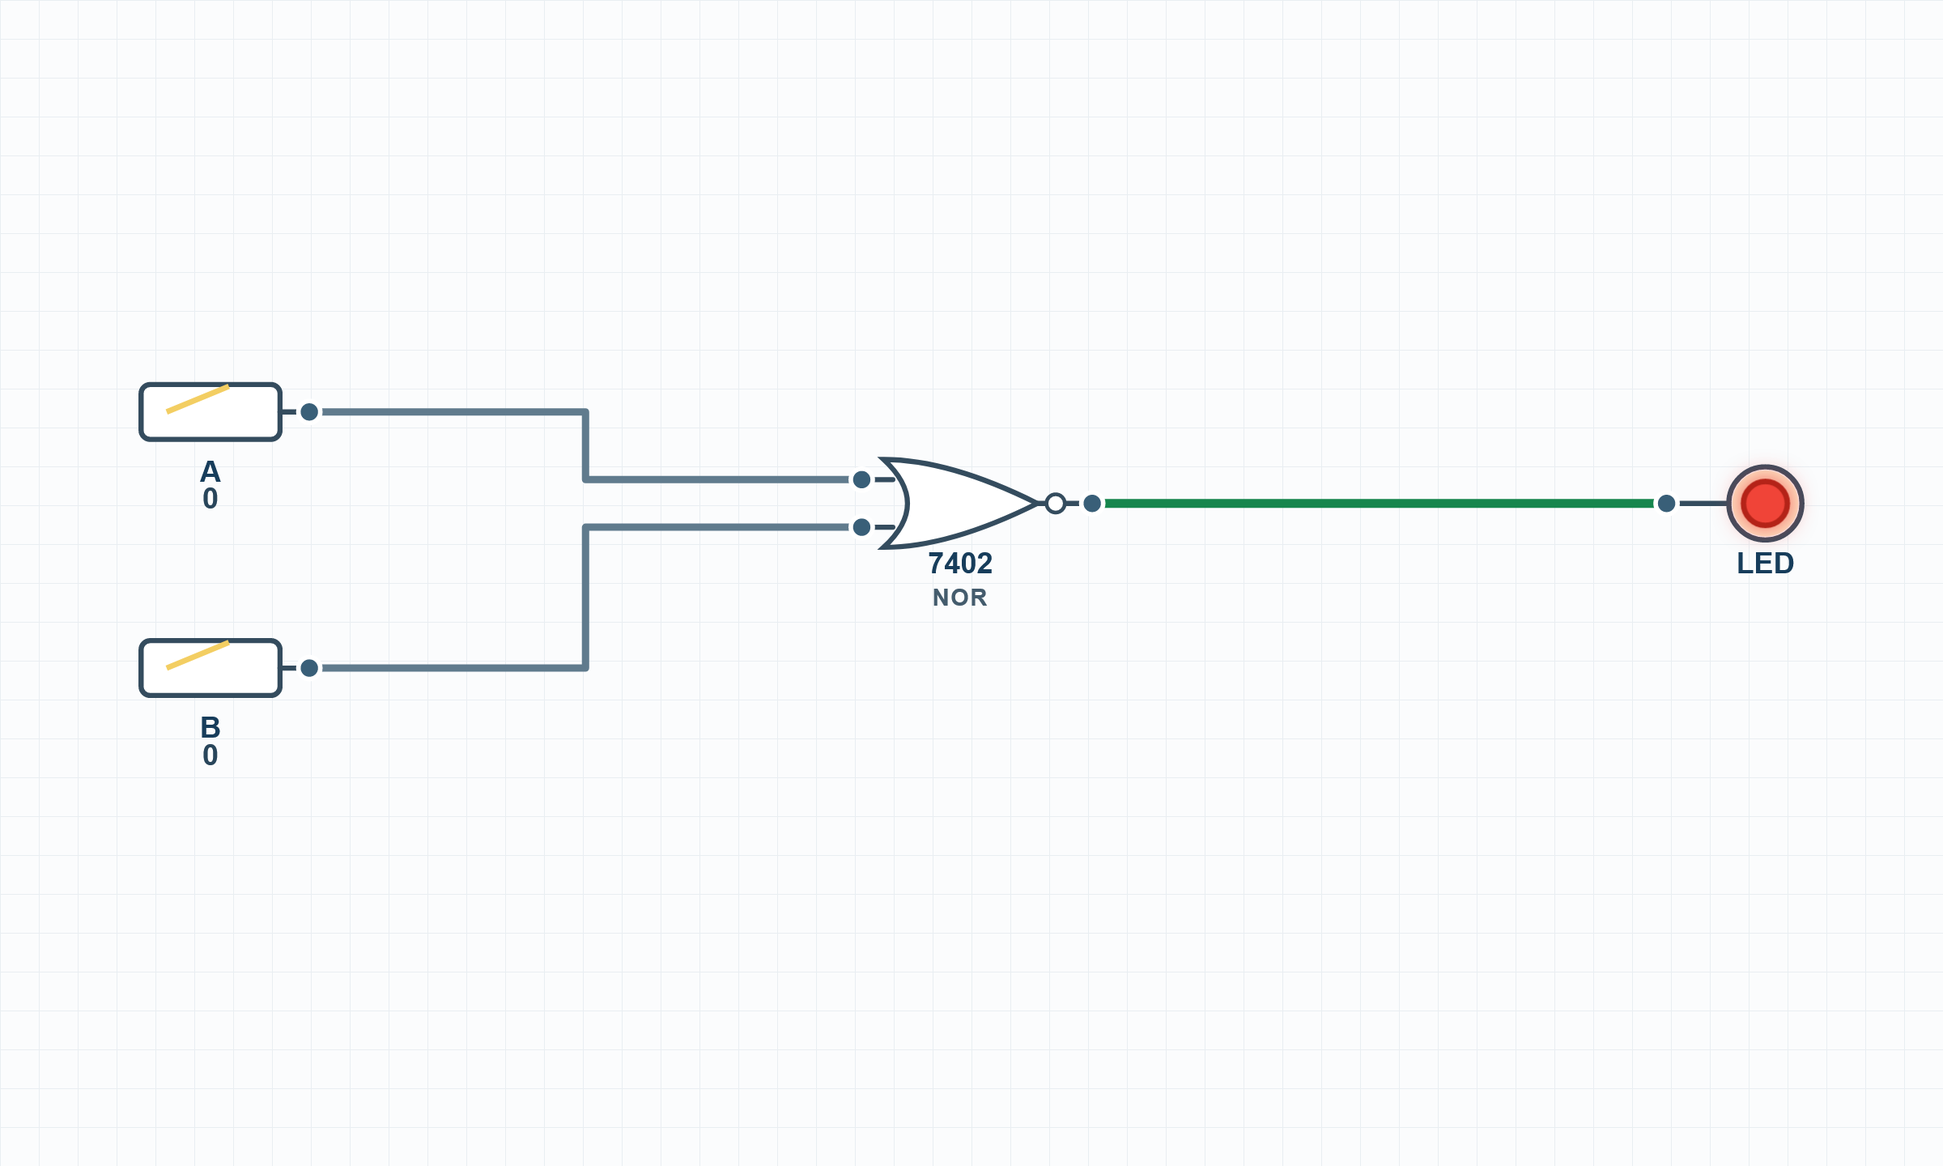
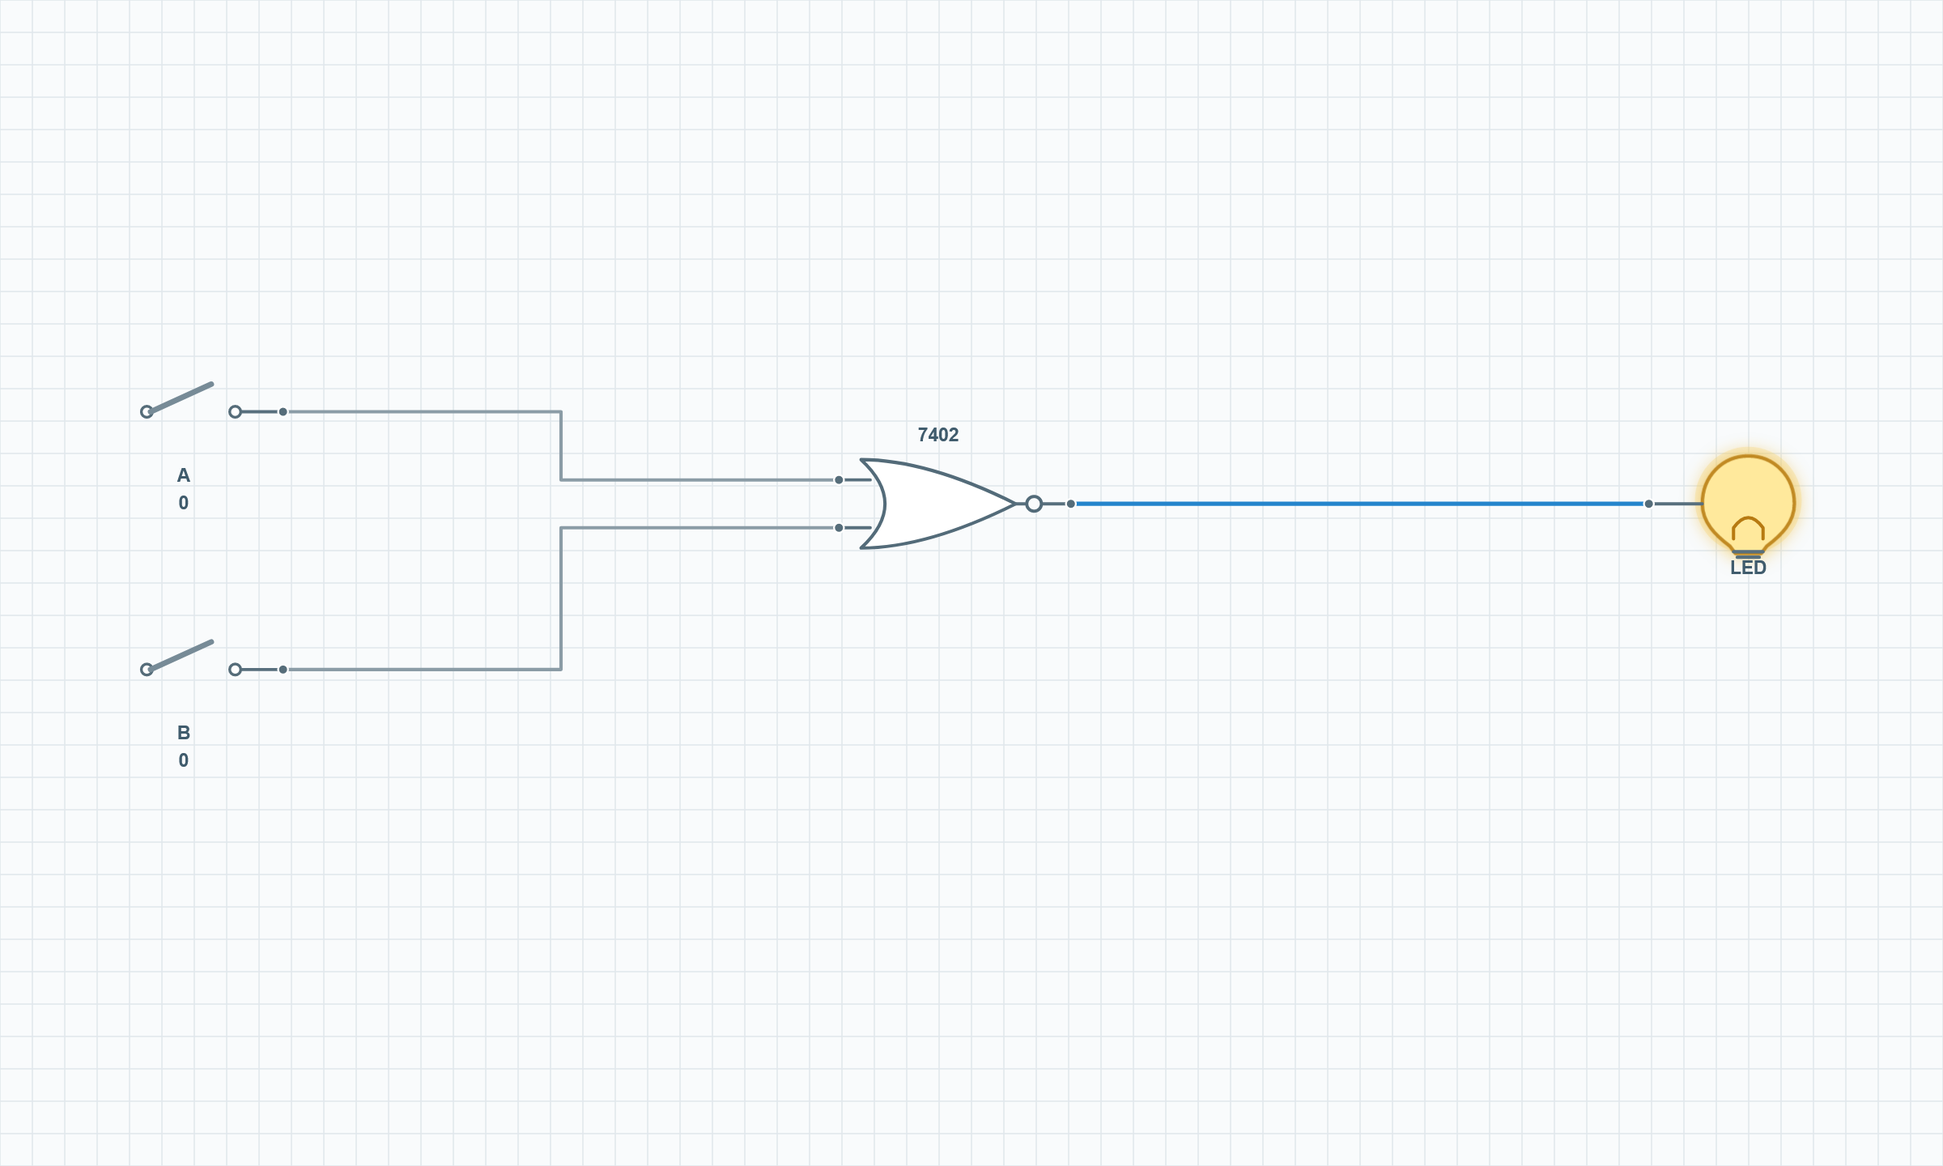
Fix digital simulator report SVG styling

Changed region(s): [[0.0625, 0.3125, 0.9375, 0.6562]]

diff --git a/Laboratorio-de-Eletronica-Digital/simulador/sim.js b/Laboratorio-de-Eletronica-Digital/simulador/sim.js
@@ -7,9 +7,9 @@ const palette=$('palette');for(const [type,meta]of Object.entries(library)){cons
 function sEl(tag,attrs={},txt){const e=document.createElementNS(ns,tag);for(const[k,v]of Object.entries(attrs))e.setAttribute(k,v);if(txt!==undefined)e.textContent=txt;return e}
 function meta(p){return library[p.type]}function pinLocal(p,i){if(p.type==='GND')return[54,5];if(p.type==='PROBE')return[0,29];if(p.type==='SW')return[108,29];if(p.type==='LED')return[0,29];if(p.type==='NOT')return i===0?[0,29]:[118,29];if(meta(p).pins.length===3)return i===0?[0,16]:i===1?[0,42]:p.type==='NOR'||p.type==='XNOR'?[126,29]:p.type==='NAND'?[118,29]:[108,29];return i===0?[0,29]:[108,29]}
 function pinKey(id,i){return `${id}:${i}`}function absolutePin(p,i){const [x,y]=pinLocal(p,i);return{x:p.x+x,y:p.y+y}}
-function body(p){if(p.type==='D'||p.type==='GND'||p.type==='PROBE'||p.type==='C')return sEl('g',{});if(['VSIN','VDC'].includes(p.type))return sEl('circle',{class:'component-body',cx:54,cy:29,r:22});if(p.type==='R')return sEl('g',{});if(p.type==='LED')return sEl('circle',{class:'component-body',cx:54,cy:29,r:20});if(p.type==='SW')return sEl('rect',{class:'component-body',x:16,y:14,width:76,height:30,rx:5});if(p.type==='NOT')return sEl('path',{class:'component-body',d:'M20 8L82 29L20 50Z'});if(['AND','NAND'].includes(p.type))return sEl('path',{class:'component-body',d:'M12 5H48A24 24 0 0 1 48 53H12Z'});if(['OR','NOR','XOR','XNOR'].includes(p.type))return sEl('path',{class:'component-body',d:'M12 5Q38 29 12 53Q48 53 96 29Q48 5 12 5Z'});return sEl('rect',{class:'component-body',x:12,y:5,width:84,height:48,rx:18})}
-function drawPart(p){const g=sEl('g',{class:`component${selected===p.id?' selected':''}`,transform:`translate(${p.x} ${p.y})`,'data-id':p.id});const b=body(p);g.append(b);if(p.type==='SW'||p.type==='LED')g.append(sEl('path',{class:'component-lead',d:p.type==='SW'?'M92 29H108':'M0 29H34'}));if(p.type==='NOT'){g.append(sEl('path',{class:'component-lead',d:'M0 29H20 M93 29H118'}));g.append(sEl('circle',{cx:88,cy:29,r:5,fill:'#fff',stroke:'#344c5e','stroke-width':2}))}if(['AND','NAND'].includes(p.type))g.append(sEl('path',{class:'component-lead',d:'M0 16H12 M0 42H12 M72 29H93 M103 29H118'}));if(['OR','NOR','XOR','XNOR'].includes(p.type))g.append(sEl('path',{class:'component-lead',d:'M0 16H17 M0 42H17 M96 29H101 M111 29H126'}));if(p.type==='R')g.append(sEl('path',{d:'M0 29H20l7-12 10 24 10-24 10 24 10-24 10 24 7-12h24',stroke:'#e8f0f4','stroke-width':3,fill:'none','stroke-linejoin':'round'}));if(p.type==='NPN')g.append(sEl('path',{d:'M0 29H42m0-17v34m0-29 27-13h39m-39 0L58 21m-16 16h16m0 0 27 14h15m-42-14 11 3-5-10',stroke:'#e8f0f4','stroke-width':3,fill:'none','stroke-linecap':'round','stroke-linejoin':'round'}));if(p.type==='VSIN')g.append(sEl('path',{d:'M39 29c5-15 10-15 15 0s10 15 15 0',stroke:'#e8f0f4','stroke-width':2.5,fill:'none'}));if(p.type==='VDC')g.append(sEl('path',{d:'M54 15v9m-4-5h8m-4 13v9',stroke:'#e8f0f4','stroke-width':2}));if(p.type==='D'){g.append(sEl('path',{d:'M30 29h20m0-13v26m0-26 24 13-24 13m24-26v26m0-13h20',stroke:'#d8e8ee','stroke-width':3,fill:'none'}))}else if(p.type==='C'){g.append(sEl('path',{d:'M0 29h43m0-15v30m12-30v30m0-15h53',stroke:'#d8e8ee','stroke-width':3,fill:'none'}))}else if(p.type==='GND'){g.append(sEl('path',{d:'M54 5v12m-16 0h32m-26 6h20m-14 6h8',stroke:'#d8e8ee','stroke-width':2,fill:'none'}))}else if(p.type==='PROBE'){g.append(sEl('path',{d:'M5 42L48 29',stroke:'#d8e8ee','stroke-width':2,fill:'none'}));g.append(sEl('circle',{cx:54,cy:29,r:5,fill:'#4bd7e8'}))}else if(p.type==='SW'){g.append(sEl('path',{d:p.value?'M30 29h42':'M30 29l34-14',stroke:p.value?'#65e1ad':'#f3ce62','stroke-width':3}))}else if(p.type==='LED'){if(p.level===1)g.append(sEl('circle',{class:'led-halo',cx:54,cy:29,r:18}));g.append(sEl('circle',{class:`led-lamp ${p.level===1?'on':'off'}`,cx:54,cy:29,r:12}))}else if(p.type==='C')g.append(sEl('text',{x:54,y:62,'text-anchor':'middle',class:'sym'},'C'));else if(p.type==='D')g.append(sEl('text',{x:54,y:62,'text-anchor':'middle',class:'sym'},'D'));
-g.append(sEl('text',{x:54,y:p.type==='C'||p.type==='D'?78:67,'text-anchor':'middle',class:'ref'},p.name||`${p.type}${p.id}`));if(['AND','OR','NOT','NAND','NOR','XOR','XNOR'].includes(p.type))g.append(sEl('text',{x:54,y:85,'text-anchor':'middle',class:'gate-kind'},p.type));if(['NAND','NOR','XNOR'].includes(p.type))g.append(sEl('circle',{cx:p.type==='NOR'||p.type==='XNOR'?106:98,cy:29,r:5,fill:'#fff',stroke:'#344c5e','stroke-width':2}));if(p.type==='XOR'||p.type==='XNOR')g.append(sEl('path',{d:'M5 5Q31 29 5 53',stroke:'#5a8999','stroke-width':2,fill:'none'}));const val=p.type==='R'?fmt(p.resistance,'Ω'):p.type==='C'?fmt(p.capacitance,'F'):p.type==='VSIN'?`${fmt(p.amp,'V')} · ${fmt(p.freq,'Hz')}`:p.type==='VDC'?fmt(p.voltage,'V'):p.type==='SW'?String(p.value):'';if(val)g.append(sEl('text',{x:54,y:p.type==='C'||p.type==='D'?92:82,'text-anchor':'middle',class:'value'},val));meta(p).pins.forEach((pin,i)=>{const [x,y]=pinLocal(p,i),c=sEl('circle',{class:'pin','data-pin':pinKey(p.id,i),cx:x,cy:y,r:6});const title=sEl('title',{},pin);c.append(title);g.append(c)});g.addEventListener('pointerdown',e=>{if(e.target.classList.contains('pin'))return;drag={id:p.id,start:point(e),origX:p.x,origY:p.y,moved:false};e.preventDefault();e.stopPropagation()});g.addEventListener('click',e=>{if(e.target.classList.contains('pin'))return;if(p.type==='SW'){p.value=p.value?0:1;update();selected=p.id;renderInspector();return}selected=p.id;draw();renderInspector()});partsLayer.append(g)}
+function body(p){if(p.type==='D'||p.type==='GND'||p.type==='PROBE'||p.type==='C')return sEl('g',{});if(['VSIN','VDC'].includes(p.type))return sEl('circle',{class:'component-body',cx:54,cy:29,r:22});if(p.type==='R')return sEl('g',{});if(p.type==='LED')return sEl('path',{class:`component-body lamp-body ${p.level===1?'on':'off'}`,d:'M54 3C40 3 29 14 29 29c0 10 7 17 15 23l3 4h14l3-4c8-6 15-13 15-23C79 14 68 3 54 3Z'});if(p.type==='SW')return sEl('g',{});if(p.type==='NOT')return sEl('path',{class:'component-body',d:'M20 8L82 29L20 50Z'});if(['AND','NAND'].includes(p.type))return sEl('path',{class:'component-body',d:'M12 5H48A24 24 0 0 1 48 53H12Z'});if(['OR','NOR','XOR','XNOR'].includes(p.type))return sEl('path',{class:'component-body',d:'M12 5Q38 29 12 53Q48 53 96 29Q48 5 12 5Z'});return sEl('rect',{class:'component-body',x:12,y:5,width:84,height:48,rx:18})}
+function drawPart(p){const g=sEl('g',{class:`component${selected===p.id?' selected':''}`,transform:`translate(${p.x} ${p.y})`,'data-id':p.id});if(p.type==='LED'&&p.level===1)g.append(sEl('circle',{class:'lamp-glow',cx:54,cy:27,r:29}));const b=body(p);g.append(b);if(p.type==='SW'){g.append(sEl('path',{class:'component-lead',d:'M82 29H108'}));g.append(sEl('circle',{class:'switch-contact',cx:34,cy:29,r:3}));g.append(sEl('circle',{class:'switch-contact',cx:82,cy:29,r:3}));g.append(sEl('path',{class:`switch-lever ${p.value?'on':'off'}`,d:p.value?'M36 29H80':'M36 29L69 14'}))}if(p.type==='LED'){g.append(sEl('path',{class:'component-lead',d:'M0 29H29'}));g.append(sEl('path',{class:'lamp-base',d:'M46 55H62M48 58H60'}));g.append(sEl('path',{class:`lamp-filament ${p.level===1?'on':'off'}`,d:'M46 42Q54 31 62 42M46 42V48M62 42V48'}))}if(p.type==='NOT'){g.append(sEl('path',{class:'component-lead',d:'M0 29H20 M92 29H118'}));g.append(sEl('circle',{class:'inversion-bubble',cx:88,cy:29,r:4}))}if(['AND','NAND'].includes(p.type))g.append(sEl('path',{class:'component-lead',d:'M0 16H12 M0 42H12 M72 29H93 M103 29H118'}));if(['OR','NOR','XOR','XNOR'].includes(p.type))g.append(sEl('path',{class:'component-lead',d:'M0 16H17 M0 42H17 M96 29H101 M111 29H126'}));if(p.type==='R')g.append(sEl('path',{d:'M0 29H20l7-12 10 24 10-24 10 24 10-24 10 24 7-12h24',stroke:'#e8f0f4','stroke-width':3,fill:'none','stroke-linejoin':'round'}));if(p.type==='NPN')g.append(sEl('path',{d:'M0 29H42m0-17v34m0-29 27-13h39m-39 0L58 21m-16 16h16m0 0 27 14h15m-42-14 11 3-5-10',stroke:'#e8f0f4','stroke-width':3,fill:'none','stroke-linecap':'round','stroke-linejoin':'round'}));if(p.type==='VSIN')g.append(sEl('path',{d:'M39 29c5-15 10-15 15 0s10 15 15 0',stroke:'#e8f0f4','stroke-width':2.5,fill:'none'}));if(p.type==='VDC')g.append(sEl('path',{d:'M54 15v9m-4-5h8m-4 13v9',stroke:'#e8f0f4','stroke-width':2}));if(p.type==='D'){g.append(sEl('path',{d:'M30 29h20m0-13v26m0-26 24 13-24 13m24-26v26m0-13h20',stroke:'#d8e8ee','stroke-width':3,fill:'none'}))}else if(p.type==='C'){g.append(sEl('path',{d:'M0 29h43m0-15v30m12-30v30m0-15h53',stroke:'#d8e8ee','stroke-width':3,fill:'none'}))}else if(p.type==='GND'){g.append(sEl('path',{d:'M54 5v12m-16 0h32m-26 6h20m-14 6h8',stroke:'#d8e8ee','stroke-width':2,fill:'none'}))}else if(p.type==='PROBE'){g.append(sEl('path',{d:'M5 42L48 29',stroke:'#d8e8ee','stroke-width':2,fill:'none'}));g.append(sEl('circle',{cx:54,cy:29,r:5,fill:'#4bd7e8'}))}else if(p.type==='SW'||p.type==='LED'){}else if(p.type==='C')g.append(sEl('text',{x:54,y:62,'text-anchor':'middle',class:'sym'},'C'));else if(p.type==='D')g.append(sEl('text',{x:54,y:62,'text-anchor':'middle',class:'sym'},'D'));
+const gatePart=['AND','OR','NOT','NAND','NOR','XOR','XNOR'].includes(p.type);g.append(sEl('text',{x:54,y:gatePart?-5:p.type==='C'||p.type==='D'?78:67,'text-anchor':'middle',class:'ref'},p.name||`${p.type}${p.id}`));if(['NAND','NOR','XNOR'].includes(p.type))g.append(sEl('circle',{class:'inversion-bubble',cx:p.type==='NOR'||p.type==='XNOR'?106:98,cy:29,r:4}));if(p.type==='XOR'||p.type==='XNOR')g.append(sEl('path',{d:'M5 5Q31 29 5 53',stroke:'#5a8999','stroke-width':2,fill:'none'}));const val=p.type==='R'?fmt(p.resistance,'Ω'):p.type==='C'?fmt(p.capacitance,'F'):p.type==='VSIN'?`${fmt(p.amp,'V')} · ${fmt(p.freq,'Hz')}`:p.type==='VDC'?fmt(p.voltage,'V'):p.type==='SW'?String(p.value):'';if(val)g.append(sEl('text',{x:54,y:p.type==='C'||p.type==='D'?92:82,'text-anchor':'middle',class:'value'},val));meta(p).pins.forEach((pin,i)=>{const [x,y]=pinLocal(p,i),c=sEl('circle',{class:'pin','data-pin':pinKey(p.id,i),cx:x,cy:y,r:mode==='digital'?2.7:6});const title=sEl('title',{},pin);c.append(title);g.append(c)});g.addEventListener('pointerdown',e=>{if(e.target.classList.contains('pin'))return;drag={id:p.id,start:point(e),origX:p.x,origY:p.y,moved:false};e.preventDefault();e.stopPropagation()});g.addEventListener('click',e=>{if(e.target.classList.contains('pin'))return;if(p.type==='SW'){p.value=p.value?0:1;update();selected=p.id;renderInspector();return}selected=p.id;draw();renderInspector()});partsLayer.append(g)}
 function fmt(n,u){if(!Number.isFinite(+n))return '?';if(u==='Ω')return +n>=1e6?(+n/1e6).toPrecision(3)+' MΩ':+n>=1e3?(+n/1e3).toPrecision(3)+' kΩ':(+n).toPrecision(3)+' Ω';if(u==='F')return +n>=1e-3?(+n*1e3).toPrecision(3)+' mF':+n>=1e-6?(+n*1e6).toPrecision(3)+' µF':(+n*1e9).toPrecision(3)+' nF';if(u==='Hz')return +n>=1e3?(+n/1e3).toPrecision(3)+' kHz':(+n).toPrecision(3)+' Hz';return (+n).toPrecision(3)+' '+u}
 function point(e){const p=svg.createSVGPoint();p.x=e.clientX;p.y=e.clientY;const q=p.matrixTransform(svg.getScreenCTM().inverse());return{x:q.x,y:q.y}}
 function addPart(type,x,y){const p={...library[type],id:circuit.nextId++,type,x:Math.max(30,Math.round(x/20)*20),y:Math.max(35,Math.round(y/20)*20),name:`${type}${circuit.nextId-1}`};circuit.components.push(p);selected=p.id;draw();renderInspector();update();$('runStatus').textContent=`${p.name} adicionado. Arraste seus terminais para ligar.`}
@@ -65,14 +65,21 @@ function reportSvgBlob(){
   const x1=Math.max(...sourceBounds.map(box=>box.x+box.width))+24,y1=Math.max(...sourceBounds.map(box=>box.y+box.height))+36;
   const scale=Math.min(1080/Math.max(1,x1-x0),590/Math.max(1,y1-y0));
   const tx=600-(x0+x1)*scale/2,ty=360-(y0+y1)*scale/2;
-  const imageSvg=document.createElementNS(ns,'svg');imageSvg.setAttribute('xmlns',ns);imageSvg.setAttribute('viewBox','0 0 1200 720');imageSvg.setAttribute('width','2400');imageSvg.setAttribute('height','1440');
-  const defs=sEl('defs');const pattern=sEl('pattern',{id:'report-grid',width:24,height:24,patternUnits:'userSpaceOnUse'});pattern.append(sEl('path',{d:'M24 0H0V24',fill:'none',stroke:'#e9eef2','stroke-width':1}));defs.append(pattern);imageSvg.append(defs);
-  const style=sEl('style',{},`.component-body{fill:#fff;stroke:#344c5e;stroke-width:2.8}.component text{pointer-events:none;font-family:Arial,Helvetica,sans-serif;fill:#172b3b}.component .sym{font-size:15px;font-weight:700;fill:#172b3b}.component .ref{fill:#173d5b;font-size:16px;font-weight:700}.component .value{fill:#29465b;font-size:16px;font-weight:700}.component .gate-kind{fill:#445c6d;font-size:13px;font-weight:700;letter-spacing:.6px}.component .pin{fill:#395f78;stroke:#fff;stroke-width:2.5}.component-lead{fill:none;stroke:#344c5e;stroke-width:2.8;stroke-linecap:round;stroke-linejoin:round}.wire{fill:none;stroke:#607b8d;stroke-width:4;stroke-linejoin:round;stroke-linecap:round}.wire.logic-high{stroke:#16864d;stroke-width:4.8}.led-halo{fill:#ffc857;opacity:.3}.led-lamp.on{fill:#f04438;stroke:#b42318;stroke-width:3;filter:drop-shadow(0 0 7px #ef4444)}.led-lamp.off{fill:#cbd5df;stroke:#64748b;stroke-width:3}.led-base{stroke:#526879;stroke-width:3;stroke-linecap:round}`);imageSvg.append(style);
-  imageSvg.append(sEl('rect',{x:0,y:0,width:1200,height:720,fill:'#fbfcfd'}));imageSvg.append(sEl('rect',{x:0,y:0,width:1200,height:720,fill:'url(#report-grid)'}));
-  const group=sEl('g',{transform:`translate(${tx} ${ty}) scale(${scale})`});group.append(wiresLayer.cloneNode(true),partsLayer.cloneNode(true));imageSvg.append(group);
+  // Exporta o SVG vivo: os PNGs usam os mesmos nós de componentes e o CSS da bancada.
+  const imageSvg=$('circuit').cloneNode(true);imageSvg.setAttribute('xmlns',ns);imageSvg.setAttribute('width','2400');imageSvg.setAttribute('height','1440');imageSvg.setAttribute('data-mode','digital');imageSvg.removeAttribute('id');
+  const copyComputed=(source,target)=>{
+    const computed=getComputedStyle(source),properties=['fill','fill-opacity','stroke','stroke-width','stroke-linecap','stroke-linejoin','stroke-dasharray','opacity','filter','display','visibility','font-family','font-size','font-weight','text-anchor','pointer-events','shape-rendering','paint-order'];
+    const declarations=properties.map(name=>{const value=computed.getPropertyValue(name);return value?`${name}:${value}`:''}).filter(Boolean).join(';');
+    if(declarations)target.setAttribute('style',declarations);
+    const a=source.children,b=target.children;for(let i=0;i<Math.min(a.length,b.length);i++)copyComputed(a[i],b[i]);
+  };
+  copyComputed($('circuit'),imageSvg);  const background=imageSvg.querySelector(':scope > rect:first-of-type');background?.setAttribute('fill','#f9fbfc');imageSvg.querySelector(':scope > rect:nth-of-type(2)')?.remove();
+  let grid='';for(let x=0;x<=1200;x+=20)grid+=`M${x} 0V720 `;for(let y=0;y<=720;y+=20)grid+=`M0 ${y}H1200 `;
+  const gridLines=sEl('path',{d:grid,fill:'none',stroke:'#e1e7ec','stroke-width':.7,'pointer-events':'none'});imageSvg.insertBefore(gridLines,imageSvg.querySelector('#wires'));
+  const wires=imageSvg.querySelector('#wires'),parts=imageSvg.querySelector('#parts');imageSvg.querySelector('.wire-preview')?.remove();
+  const group=sEl('g',{transform:`translate(${tx} ${ty}) scale(${scale})`});wires.parentNode.insertBefore(group,wires);group.append(wires,parts);
   return new Blob([new XMLSerializer().serializeToString(imageSvg)],{type:'image/svg+xml;charset=utf-8'});
-}
-async function renderReport1Png(){
+}async function renderReport1Png(){
   const svgBlob=reportSvgBlob(),url=URL.createObjectURL(svgBlob);
   try{const image=new Image();await new Promise((resolve,reject)=>{image.onload=resolve;image.onerror=()=>reject(new Error('O navegador não renderizou o SVG da montagem.'));image.src=url});const canvas=document.createElement('canvas');canvas.width=2400;canvas.height=1440;const ctx=canvas.getContext('2d');ctx.fillStyle='#fbfcfd';ctx.fillRect(0,0,canvas.width,canvas.height);ctx.drawImage(image,0,0,canvas.width,canvas.height);return await new Promise((resolve,reject)=>canvas.toBlob(blob=>blob?resolve(blob):reject(new Error('Falha ao converter o SVG em PNG.')),'image/png'))}finally{URL.revokeObjectURL(url)}
 }

diff --git a/Laboratorio-de-Eletronica-Digital/simulador/sim.css b/Laboratorio-de-Eletronica-Digital/simulador/sim.css
@@ -30,3 +30,44 @@ svg#circuit #grid path{stroke:#e5ebf0!important}
 svg#circuit>rect:first-of-type{fill:#fbfcfd!important}
 .led-halo{fill:#ffc857;opacity:.38}.led-lamp.on{fill:#f04438;stroke:#b42318;stroke-width:3;filter:drop-shadow(0 0 7px #ef4444)}.led-lamp.off{fill:#cbd5df;stroke:#64748b;stroke-width:3}.led-base{stroke:#526879;stroke-width:3;stroke-linecap:round}
 .component-lead{fill:none;stroke:#344c5e;stroke-width:2.8;stroke-linecap:round;stroke-linejoin:round}
+
+/* Componentes da bancada: linguagem leve de simulador didático, compartilhada pelo canvas e exportação. */
+body[data-mode="digital"]{--bg:#edf2f5;--panel:#fff;--line:#cbd6df;--text:#263746;--muted:#687c8b;--green:#248557;--cyan:#357fa8;--yellow:#edaa38;color:var(--text);background:#edf2f5}
+body[data-mode="digital"] header a{color:#2478a3}
+body[data-mode="digital"] .toolbar,body[data-mode="digital"] .panel{background:#fff;border-color:#d1dce4;box-shadow:0 1px 3px #1c334010}
+body[data-mode="digital"] .toolbar button,body[data-mode="digital"] button{background:#f8fafb;color:#314655;border-color:#c4d1da}
+body[data-mode="digital"] button.primary{background:#247c56;color:#fff;border-color:#1c704b}
+body[data-mode="digital"] .canvaswrap{background:#f6f9fb;border-color:#dae2e8}
+body[data-mode="digital"] svg#circuit{background:#f6f9fb}
+body[data-mode="digital"] svg#circuit #grid path{stroke:#e5ebef!important}
+body[data-mode="digital"] svg#circuit>rect:first-of-type{fill:#f9fbfc!important}
+body[data-mode="digital"] .component{cursor:move}
+body[data-mode="digital"] .component-body{fill:#fff;stroke:#536b79;stroke-width:1.8;stroke-linejoin:round}
+body[data-mode="digital"] .component.selected .component-body{stroke:#d9972b;stroke-width:2.5}
+body[data-mode="digital"] .component text{pointer-events:none;font-family:Arial,Helvetica,sans-serif;fill:#334956}
+body[data-mode="digital"] .component .sym{font-size:13px;font-weight:650;fill:#293e4b}
+body[data-mode="digital"] .component .ref{fill:#405c6d;font-size:10px;font-weight:600}
+body[data-mode="digital"] .component .value{fill:#405c6d;font-size:10px;font-weight:600}
+body[data-mode="digital"] .component .gate-kind{display:none}
+body[data-mode="digital"] .component-lead{fill:none;stroke:#586f7d;stroke-width:1.7;stroke-linecap:round;stroke-linejoin:round}
+body[data-mode="digital"] .pin{fill:#566d7a;stroke:#fff;stroke-width:1; r:2.7;cursor:crosshair}
+body[data-mode="digital"] .pin:hover{fill:#edae42;stroke:#fff;stroke-width:1.5}
+body[data-mode="digital"] .wire{stroke:#8b9ca6;stroke-width:1.8;stroke-linecap:round;stroke-linejoin:round}
+body[data-mode="digital"] .wire.logic-high{stroke:#2585cc;stroke-width:2.3}
+body[data-mode="digital"] .wire.selected{stroke:#e0a33c;stroke-width:3}
+body[data-mode="digital"] .wire-preview{stroke:#4389b2;stroke-width:1.8}
+body[data-mode="digital"] .switch-contact{fill:#fff;stroke:#556c79;stroke-width:1.5}
+body[data-mode="digital"] .switch-lever{fill:none;stroke:#607886;stroke-width:3;stroke-linecap:round}
+body[data-mode="digital"] .switch-lever.on{stroke:#2385c4}
+body[data-mode="digital"] .switch-lever.off{stroke:#778b97}
+body[data-mode="digital"] .lamp-body{stroke:#586f7c;stroke-width:1.9}
+body[data-mode="digital"] .lamp-body.off{fill:#f2f5f6}
+body[data-mode="digital"] .lamp-body.on{fill:#ffe99c;stroke:#c18a23;filter:drop-shadow(0 0 5px #f0c75c)}
+body[data-mode="digital"] .lamp-glow{fill:#f6d36d;opacity:.28}
+body[data-mode="digital"] .lamp-filament{fill:none;stroke:#7c8b91;stroke-width:1.8;stroke-linecap:round}
+body[data-mode="digital"] .lamp-filament.on{stroke:#b77a11}
+body[data-mode="digital"] .lamp-base{fill:none;stroke:#586f7c;stroke-width:1.8;stroke-linecap:round}
+body[data-mode="digital"] .report-output{background:#f2faf5;color:#294d3d;border-color:#99c9ad}
+body[data-mode="digital"] .report-downloads a{background:#f5faf7;color:#246145;border-color:#a8cbb7}
+body[data-mode="digital"] svg#circuit #grid path{stroke:#e1e7ec!important;stroke-width:.8!important}
+body[data-mode="digital"] .component .inversion-bubble{fill:#f9fbfc;stroke:#536b79;stroke-width:1.7}
